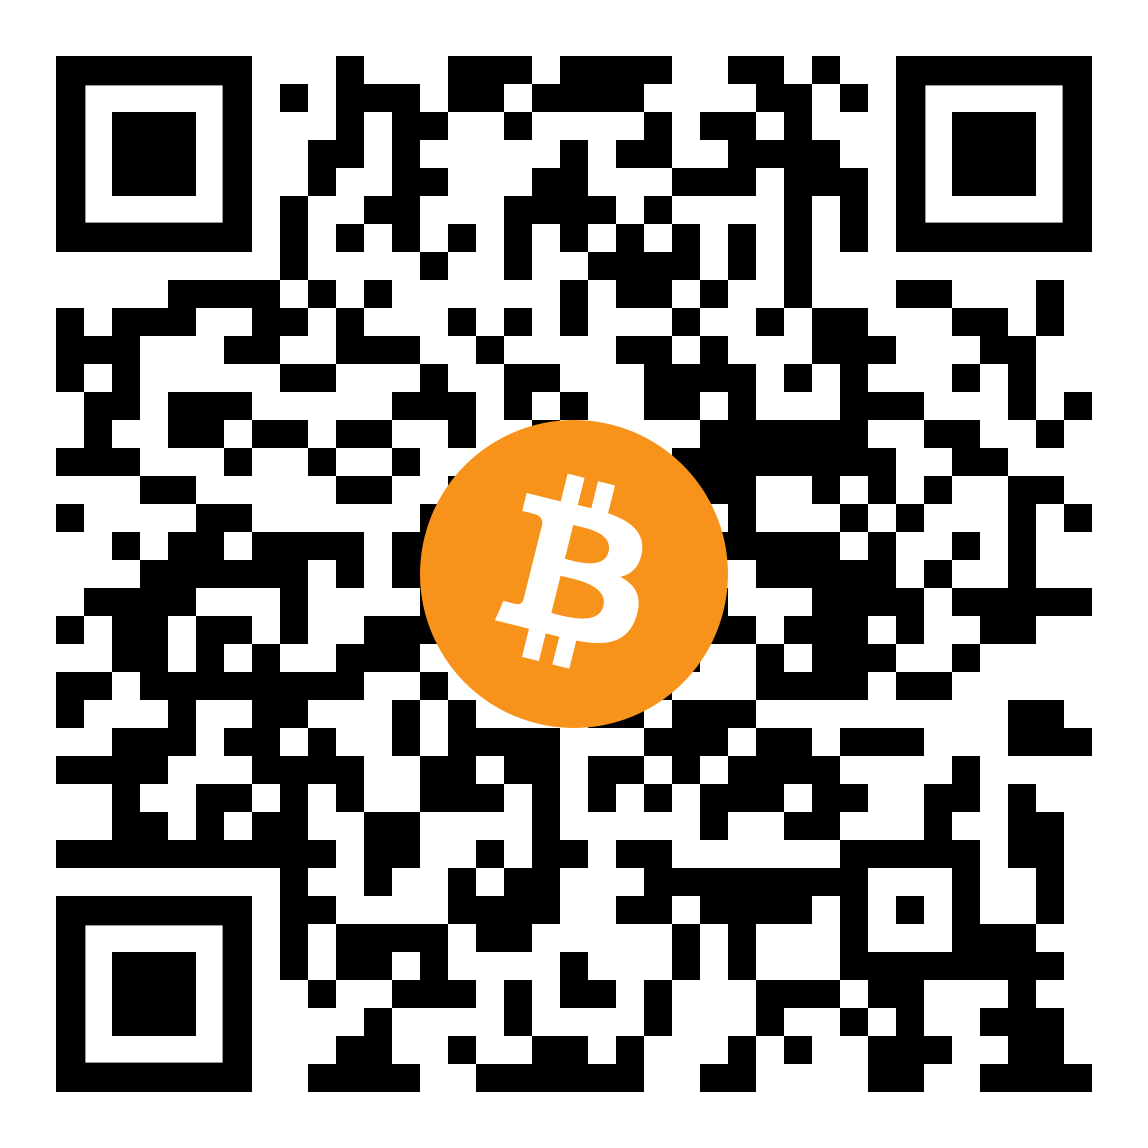
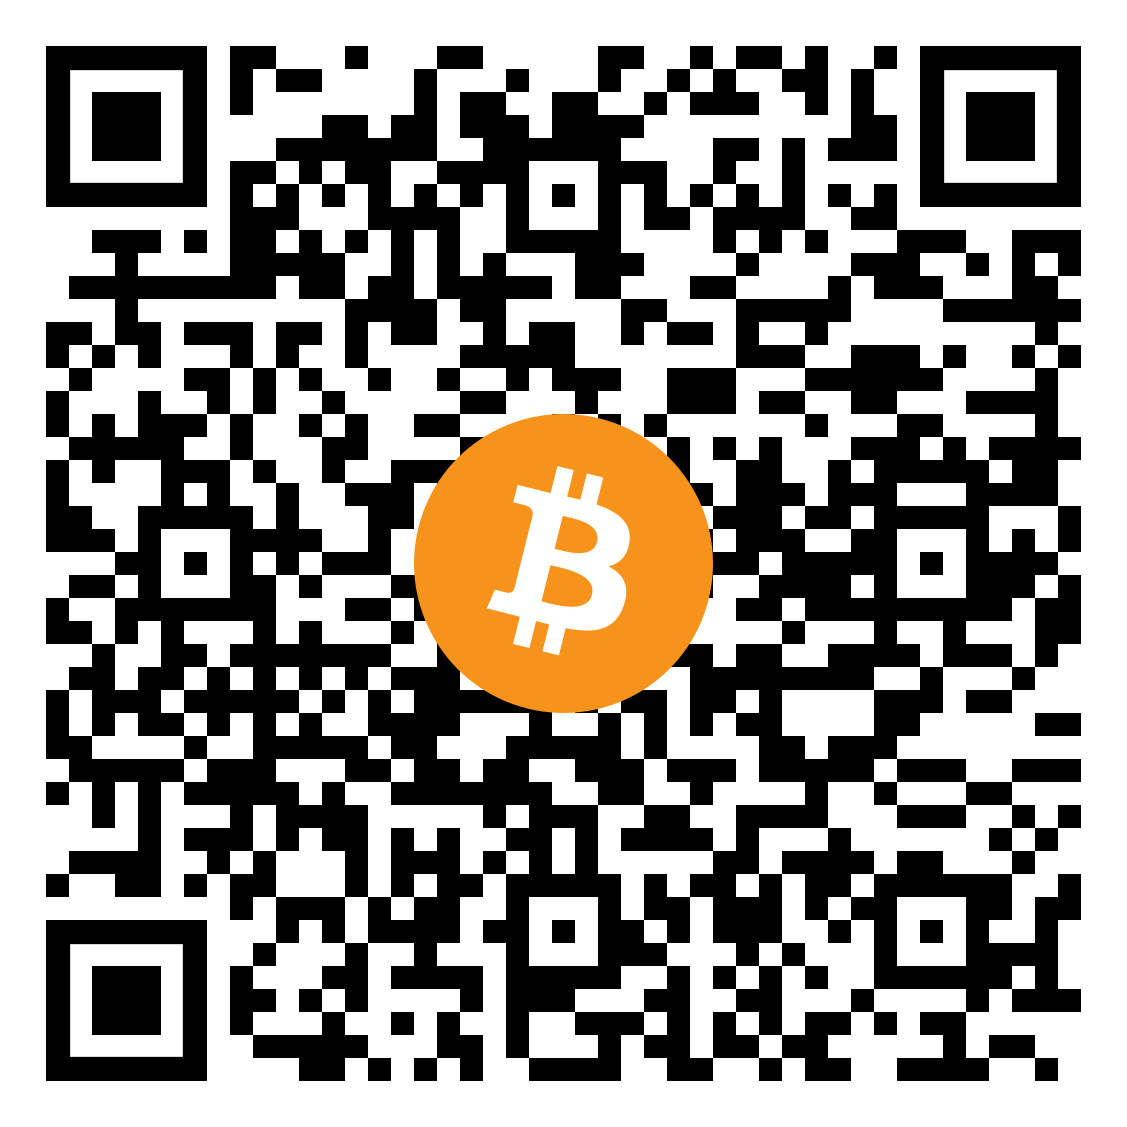
Changed btc & lbtc address

diff --git a/src/main.js b/src/main.js
@@ -62,8 +62,8 @@ document.addEventListener('DOMContentLoaded', () => {
   const qrData = [
[2 lines of base64/hex data omitted]
-    { img: 'assets/btc-qr.png', alt: 'btc-qr', code: 'bc1qevwqcm0y8yp9876flasm625tqf3g4dagxmd2k6'},
-    { img: 'assets/lbtc-qr.png', alt: 'lbtc-qr', code: 'roguehashrate@strike.me' },
+    { img: 'assets/btc-qr.png', alt: 'btc-qr', code: 'bc1pr9dyuky5ytnv3z4hh5e6xearhpaudz33737k84m4hndmpp0pj57s8dzrfz'},
+    { img: 'assets/lbtc-qr.png', alt: 'lbtc-qr', code: 'roguehashrate@coinos.io' },
 
 
   ];
